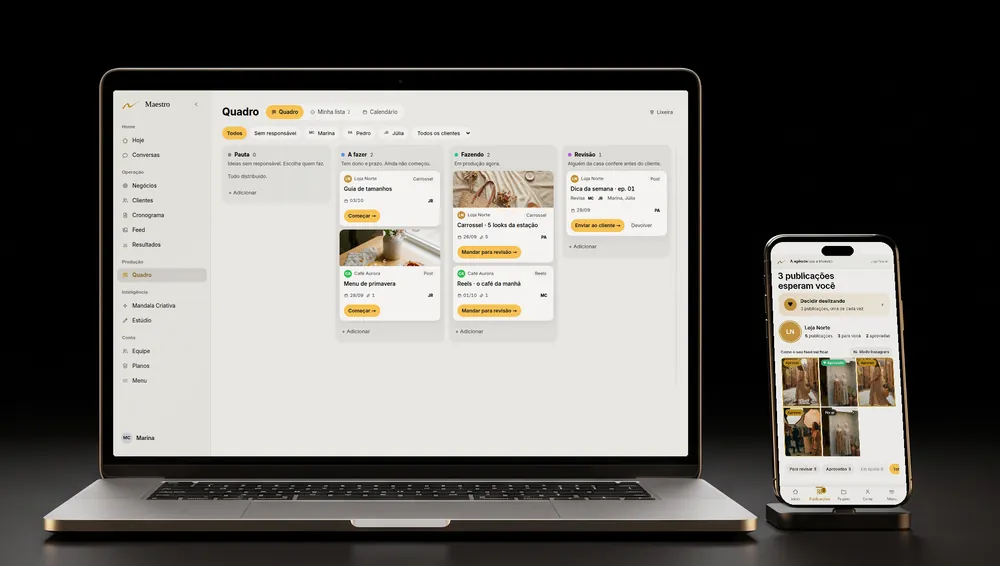
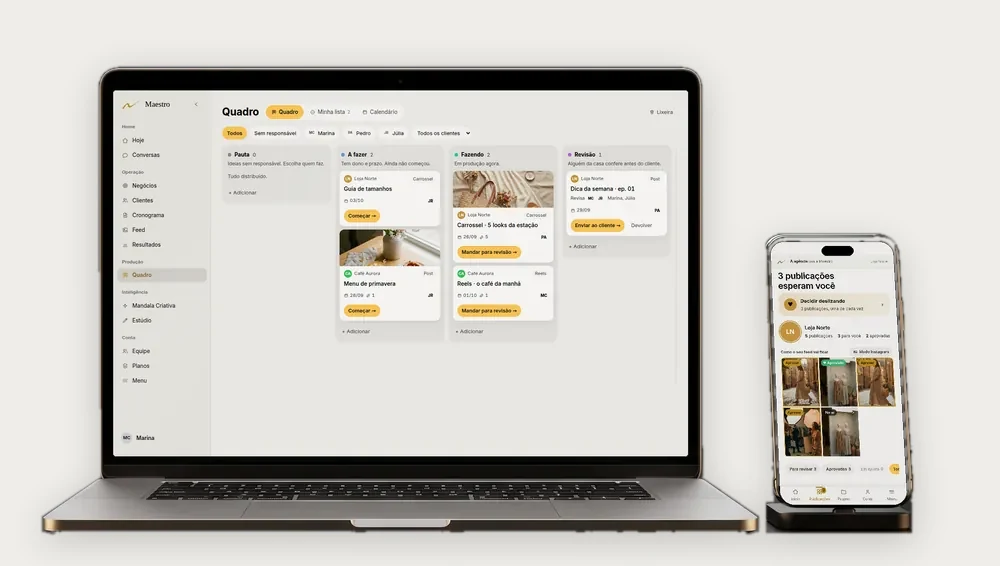
v295: no tema claro, a foto principal da vitrine tem o fundo do site
Claude-Session: https://claude.ai/code/session_0127otAiK1tjduDqwuVLWycT

diff --git a/web/tema/tema.js b/web/tema/tema.js
@@ -101,10 +101,9 @@
   html[data-tema="claro"] .sv .b.pri:hover{ background:#FFD176 !important }
   html[data-tema="claro"] .sHero::before{ background:radial-gradient(ellipse at center, rgba(255,200,87,.28), transparent 62%) }
   html[data-tema="claro"] .sv .sOlho{ color:#8A6410 }
-  /* as fotos dos aparelhos têm fundo preto: no claro, entram num palco escuro
-     (como as vitrines da Apple), e o "clarear" segue funcionando dentro dele */
-  html[data-tema="claro"] .sv .sHero .sFotoMol{ background:#1C1C1F; border-radius:28px; max-width:1080px; margin:48px auto 0; padding:26px 26px 0; overflow:hidden; box-shadow:0 30px 70px -30px rgba(40,30,10,.35) }
-  html[data-tema="claro"] .sv .sHero .sFoto{ margin-top:0; width:100%; margin-left:0 }
+  /* v295 — no claro, a foto principal tem o fundo do site (Linho), sem o palco escuro:
+     "a imagem maior tá com o fundo preto… precisa casar com o fundo do site na versão light" */
+  html[data-tema="claro"] .sv .sFoto, html[data-tema="claro"] .sv .sFoto img{ mix-blend-mode:normal !important }
   html[data-tema="claro"] .sv .price.pop{ background:linear-gradient(#FFF3D6, #F8F7F4) }
   html[data-tema="claro"] .sv .sPasso, html[data-tema="claro"] .sv .sTile, html[data-tema="claro"] .sv .price{ box-shadow:0 1px 2px rgba(0,0,0,.04), 0 8px 24px -12px rgba(40,30,10,.12) }
   html[data-tema="claro"] .sv .seg button.on{ background:#FFC857 !important; color:#1C1C1F !important }
